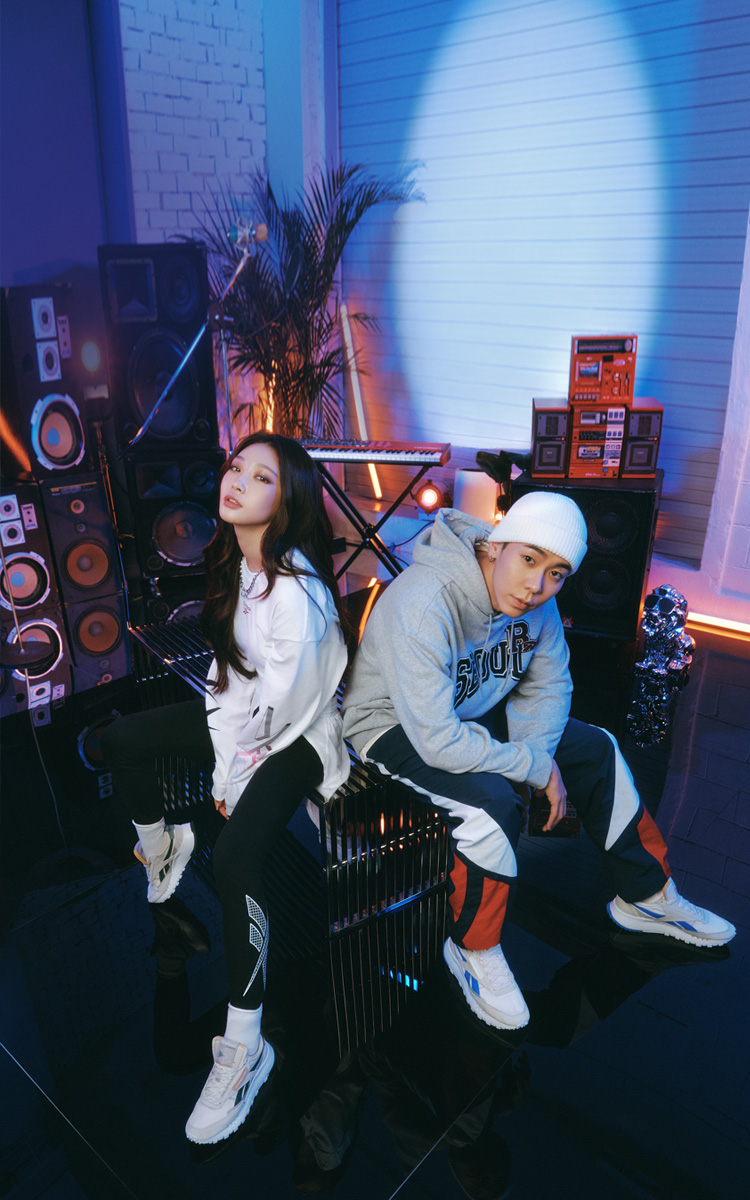
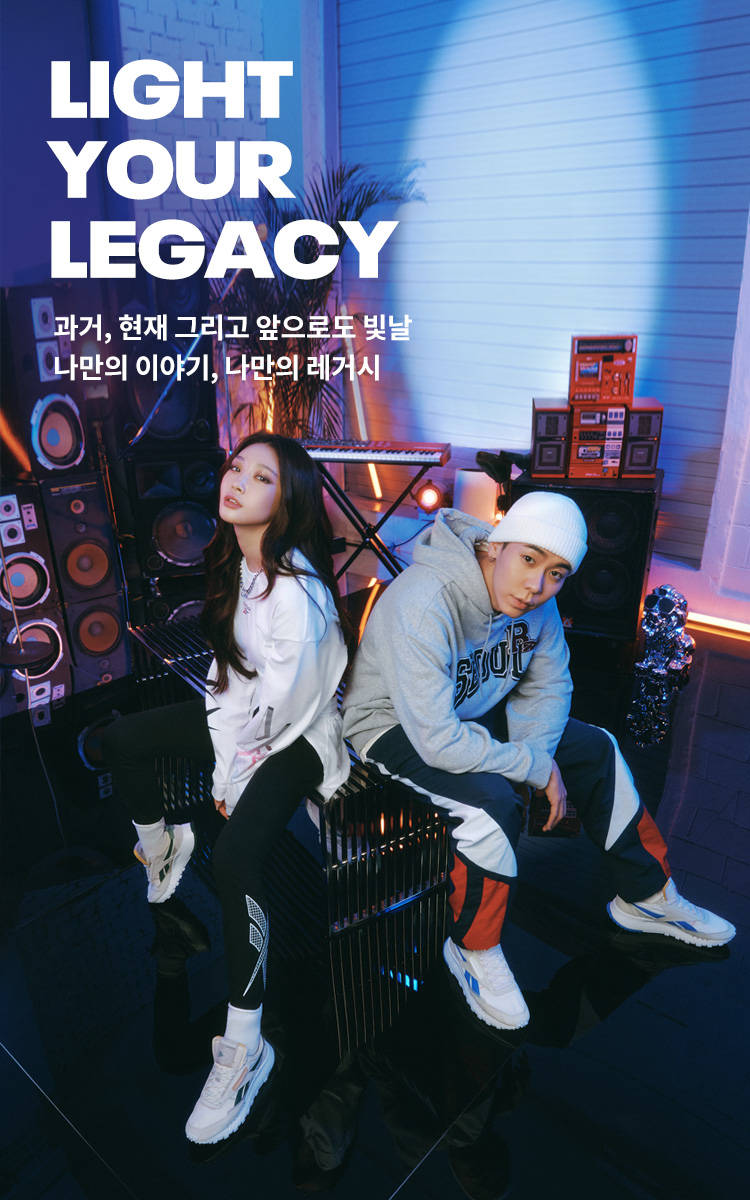
-

Changed region(s): [[0.0613, 0.0308, 0.552, 0.3392]]

diff --git a/mobile/html/reebok/2021/event/legacy/build/index.html b/mobile/html/reebok/2021/event/legacy/build/index.html
@@ -123,7 +123,7 @@
 				<div id="legacy">
 					<div class="section sect_visual">
 						<img src="/images/reebok/2021/event/legacy/visual_img.jpg" alt="">
-						<div class="visual_info">
+						<!-- <div class="visual_info">
 							<h3>
 								LIGHT<br>
 								YOUR<br>
@@ -133,7 +133,7 @@
 								과거, 현재 그리고 앞으로도 빛날<br>
 								나만의 이야기, 나만의 레거시 
 							</p>
-						</div>
+						</div> -->
 						<div class="btn white">
 							<div>
 								<a href="https://m.reebok.co.kr/MO/Promotion/landingPage.action?pageNo=1588" campaign-label="구매하기">

diff --git a/mobile/html/reebok/2021/event/legacy/index.html b/mobile/html/reebok/2021/event/legacy/index.html
@@ -121,7 +121,7 @@
 				<div id="legacy">
 					<div class="section sect_visual">
 						<img src="/images/reebok/2021/event/legacy/visual_img.jpg" alt="">
-						<div class="visual_info">
+						<!-- <div class="visual_info">
 							<h3>
 								LIGHT<br>
 								YOUR<br>
@@ -131,7 +131,7 @@
 								과거, 현재 그리고 앞으로도 빛날<br>
 								나만의 이야기, 나만의 레거시 
 							</p>
-						</div>
+						</div> -->
 						<div class="btn white">
 							<div>
 								<a href="https://m.reebok.co.kr/MO/Promotion/landingPage.action?pageNo=1588" campaign-label="구매하기">

diff --git a/mobile/html/reebok/pn/2021cllegacy.html b/mobile/html/reebok/pn/2021cllegacy.html
@@ -7,7 +7,7 @@
 				<div id="legacy">
 					<div class="section sect_visual">
 						<img src="/images/reebok/2021/event/legacy/visual_img.jpg" alt="">
-						<div class="visual_info">
+						<!-- <div class="visual_info">
 							<h3>
 								LIGHT<br>
 								YOUR<br>
@@ -17,7 +17,7 @@
 								과거, 현재 그리고 앞으로도 빛날<br>
 								나만의 이야기, 나만의 레거시 
 							</p>
-						</div>
+						</div> -->
 						<div class="btn white">
 							<div>
 								<a href="https://m.reebok.co.kr/MO/Promotion/landingPage.action?pageNo=1588" campaign-label="구매하기">
